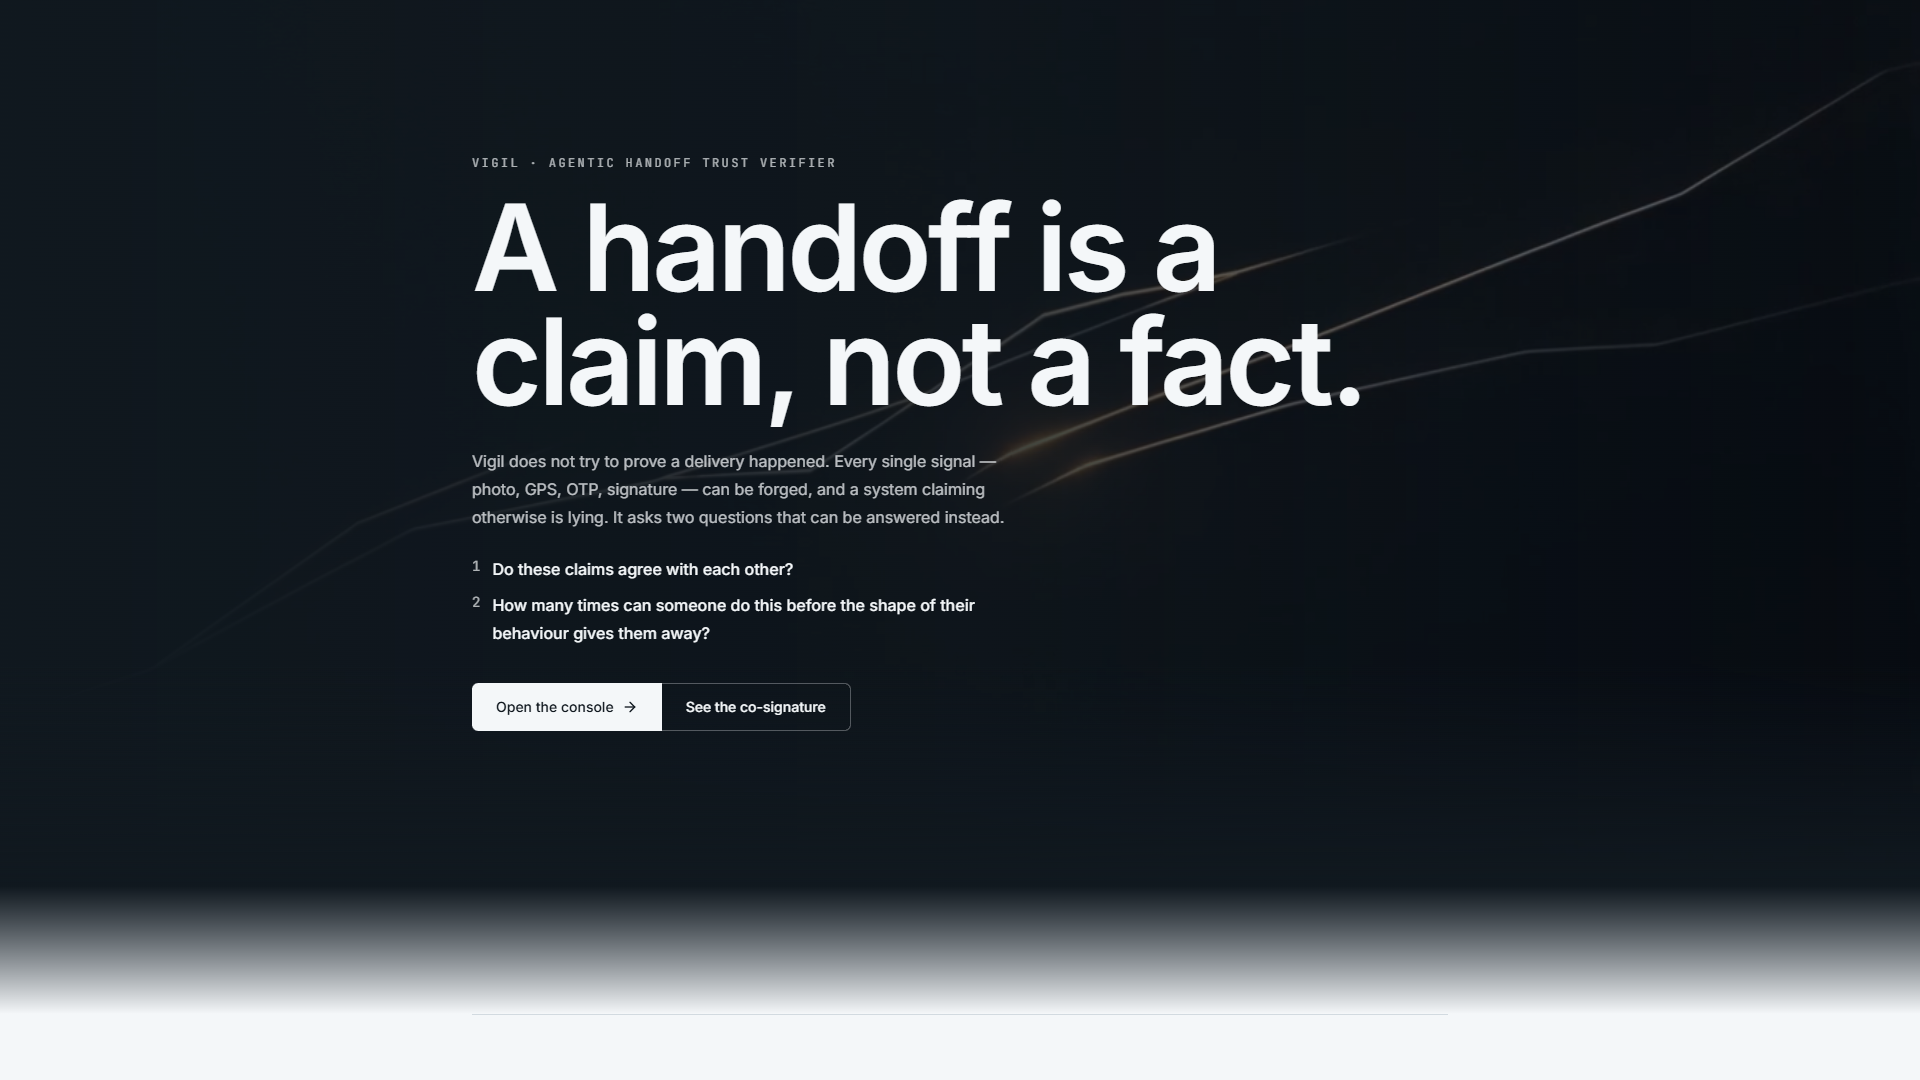
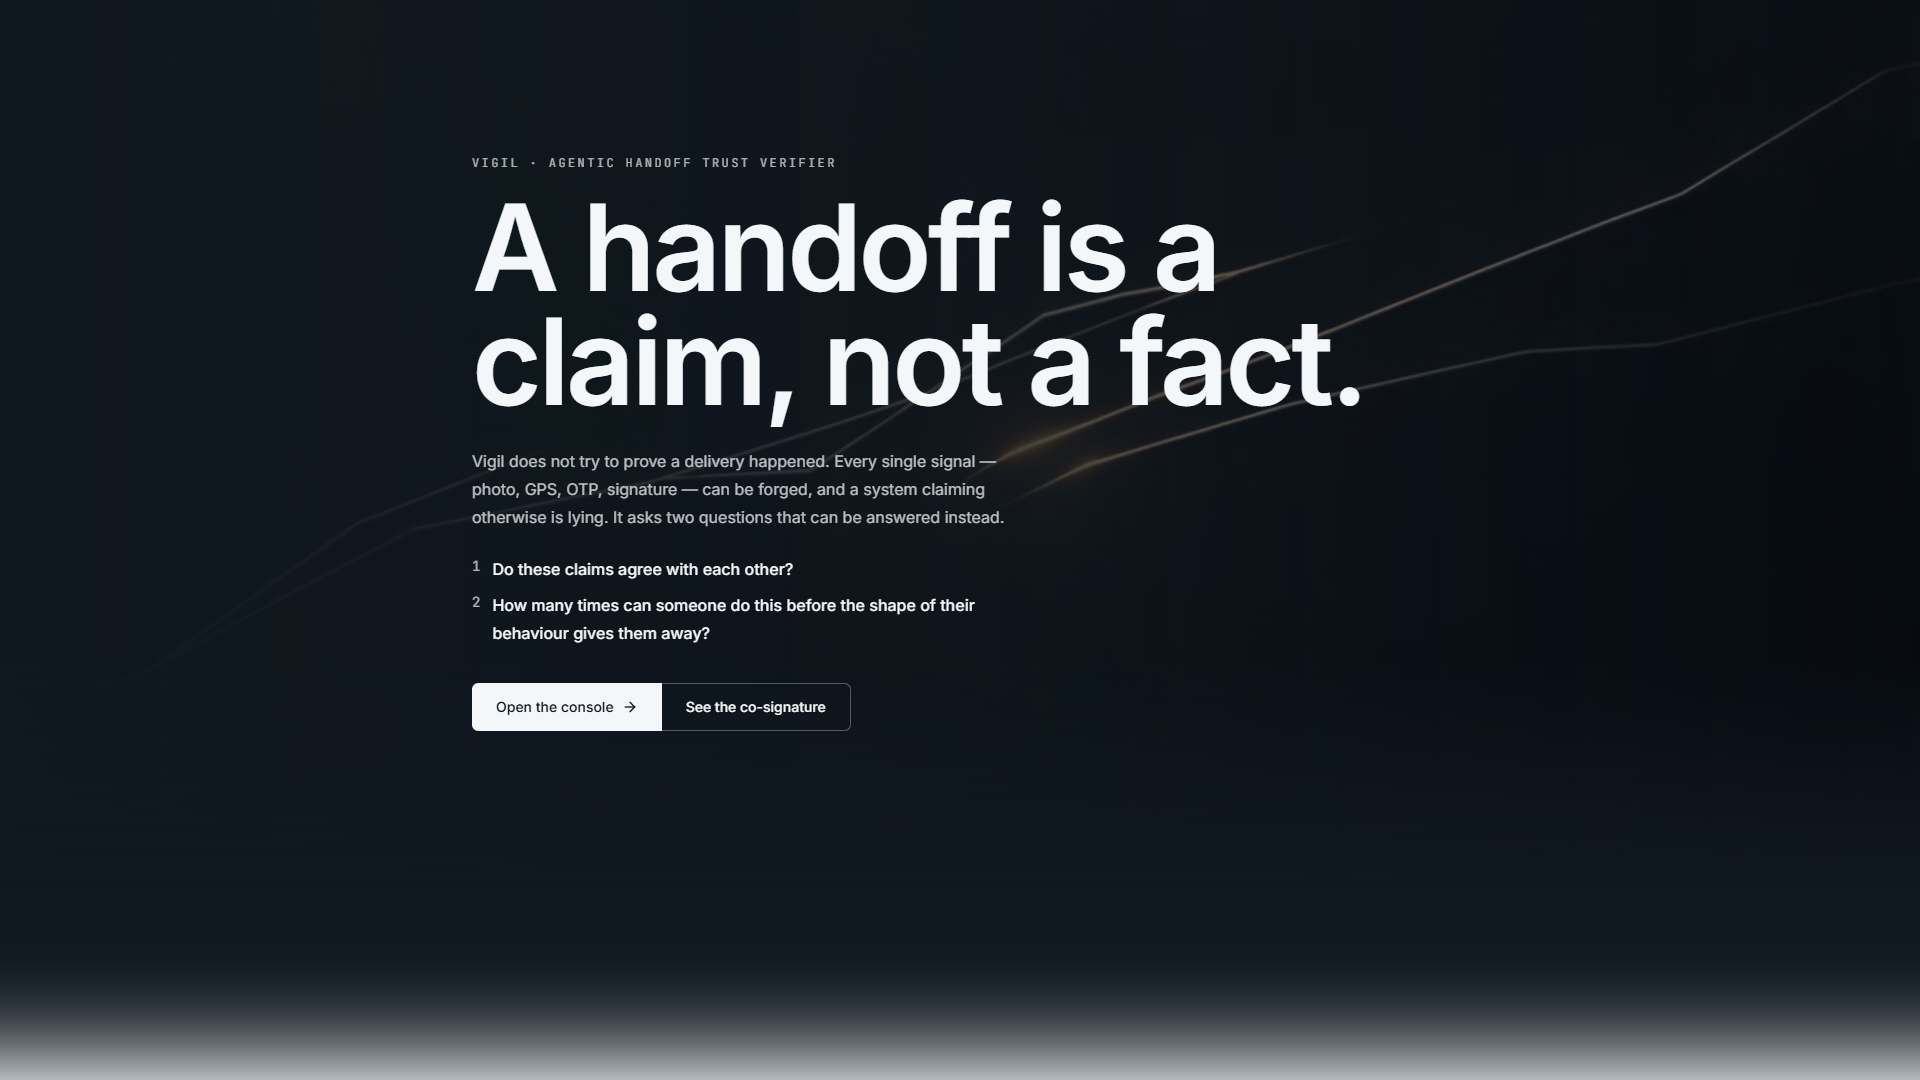
fix(landing): the hero seam was a Mach band, not a colour mismatch
Hero and band met at the same 16,24,31; the edge was a flat hero meeting a
linear ramp at full slope. The band is now 256px of smootherstep(t^1.6) over
32 oklab stops, and the section after it carries no rule. capture-landing
measures the slope at both junctions and fails a linear ramp.

Changed region(s): [[0.0, 0.825, 1.0, 1.0]]

diff --git a/components/landing/landing-view.tsx b/components/landing/landing-view.tsx
@@ -6,6 +6,7 @@ import NumberFlow from "@number-flow/react";
 import { ArrowRight, Monitor, Smartphone } from "lucide-react";
 import { HERO, LIMITS, SECTIONS, type Stat } from "@/lib/landing/content";
 import { HERO_MEDIA, planHeroBackdrop } from "@/lib/landing/hero-media";
+import { transitionGradient } from "@/lib/landing/transition";
 import { cn } from "@/lib/utils";
 import { cancelFrame, frame, type FrameData } from "motion/react";
 import { PipelineSteps } from "./pipeline-steps";
@@ -30,10 +31,13 @@ export function LandingView() {
       <Hero />
       <TransitionBand />
 
-      {SECTIONS.map((section) => (
+      {SECTIONS.map((section, index) => (
         <Section
           key={section.id}
           section={section}
+          // The band has just finished the transition; a rule here would cut
+          // it at the moment it completes. Every later section keeps its rule.
+          ruled={index > 0}
           lead={section.id === "ai" ? <PipelineSteps /> : undefined}
         />
       ))}
@@ -206,20 +210,25 @@ function HeroBackdrop() {
  * with it — the argument's order (problem, consistency, the gate, approval,
  * where the AI sits) was set in session 19 and does not move for a gradient.
  *
- * `h-32` is a MACRO LAYOUT DIMENSION, in the same class as the pipeline's
- * 8 × 100vh: how long a transition lasts on the page. It is not a spacing token
- * and the 4/8/12/16/24/32 component scale does not govern it.
+ * `h-64` (256px) is a MACRO LAYOUT DIMENSION, in the same class as the
+ * pipeline's 8 × 100vh: how long a transition lasts on the page. It is not a
+ * spacing token and the 4/8/12/16/24/32 component scale does not govern it. It
+ * replaced session 22's `h-32`, whose 128px linear ramp showed a seam and a grey
+ * band — see `lib/landing/transition.ts` for what was measured and why the fix
+ * is the curve rather than the colours.
  *
  * Decorative: aria-hidden, no text, nothing to focus. Full-bleed by the same
  * clientWidth rule as the hero backdrop, so its edges line up with the hero's.
  */
+const TRANSITION_GRADIENT = transitionGradient();
+
 function TransitionBand() {
   const bleed = useDocumentWidth();
   return (
-    <div aria-hidden="true" data-transition-band className="relative h-32">
+    <div aria-hidden="true" data-transition-band className="relative h-64">
       <div
-        className="absolute inset-y-0 left-1/2 w-full -translate-x-1/2 bg-gradient-to-b from-foreground to-background"
-        style={bleed ? { width: bleed } : undefined}
+        className="absolute inset-y-0 left-1/2 w-full -translate-x-1/2"
+        style={{ backgroundImage: TRANSITION_GRADIENT, ...(bleed ? { width: bleed } : {}) }}
       />
     </div>
   );
@@ -260,13 +269,15 @@ function usePrefersReducedMotion(): boolean {
 function Section({
   section,
   lead,
+  ruled = true,
 }: {
   section: (typeof SECTIONS)[number];
+  ruled?: boolean;
   /** Rendered straight under the title, before the body: the thing the prose then comments on. */
   lead?: React.ReactNode;
 }) {
   return (
-    <section id={section.id} className="scroll-mt-16 border-t py-20">
+    <section id={section.id} className={cn("scroll-mt-16 py-20", ruled && "border-t")}>
       <p className="font-mono text-xs uppercase tracking-[0.2em] text-muted-foreground">
         {section.eyebrow}
       </p>

diff --git a/lib/landing/transition.ts b/lib/landing/transition.ts
@@ -1,0 +1,47 @@
+/**
+ * The dark-hero-to-light-page transition, as a curve and a CSS gradient.
+ *
+ * WHAT WAS WRONG, MEASURED BEFORE ANYTHING MOVED. The session-22 band was a
+ * linear 128px ramp. Its first row and the hero's last row read identical
+ * pixels — 16,24,31, the `--foreground` token — so there was no colour mismatch
+ * at the seam. The visible edge was a MACH BAND: the hero is flat, then the ramp
+ * starts at full slope, and the eye marks a sudden change in slope as a line.
+ * The mid-grey "banner" was the linear ramp's constant middle.
+ *
+ * So the fix is the SHAPE, not the colours: a curve whose slope is zero where it
+ * meets the flat hero and zero where it meets the flat page, with most of the
+ * change in the lower half — mostly unchanged across the top, turning near the
+ * bottom. `smootherstep(t^1.6)`: the exponent skews the turn downward, and
+ * smootherstep flattens both ends to zero slope AND zero curvature.
+ *
+ * Smoothstep was the first choice and measured worse at the light end: skewing
+ * the turn that low left it only 74px to flatten, and 8px above the page its
+ * slope was still 23% of its steepest — a second, fainter Mach band against the
+ * white. Smootherstep, same skew: 4.5%. The top half moves 20% of the way.
+ */
+
+/** Share of the way from hero ground to page ground at position t ∈ [0, 1]. */
+export function transitionProgress(t: number): number {
+  const clamped = Math.min(1, Math.max(0, t));
+  const u = clamped ** 1.6;
+  return u * u * u * (u * (u * 6 - 15) + 10);
+}
+
+/**
+ * The band's background: stops sampled from the curve, mixed in oklab between
+ * the two raw tokens. Raw `var(--foreground)` rather than `--color-foreground`,
+ * which Tailwind only emits when a utility used it (CLAUDE.md, session 22).
+ *
+ * 32 stops, one per 8px of a 256px band. A pixel dump of the first 16-stop
+ * version showed small flat spots at every stop near the light end: between
+ * stops the browser interpolates linearly, so each stop is a slope kink.
+ */
+export function transitionGradient(steps = 32): string {
+  const stops: string[] = [];
+  for (let i = 0; i <= steps; i += 1) {
+    const t = i / steps;
+    const share = Math.round(transitionProgress(t) * 1000) / 10;
+    stops.push(`color-mix(in oklab, var(--foreground), var(--background) ${share}%) ${Math.round(t * 1000) / 10}%`);
+  }
+  return `linear-gradient(to bottom in oklab, ${stops.join(", ")})`;
+}

diff --git a/lib/landing/transition.test.ts b/lib/landing/transition.test.ts
@@ -1,0 +1,47 @@
+import { describe, expect, it } from "vitest";
+import { transitionGradient, transitionProgress } from "./transition";
+
+describe("the hero-to-page transition curve", () => {
+  it("starts at the hero's ground and ends at the page's", () => {
+    expect(transitionProgress(0)).toBe(0);
+    expect(transitionProgress(1)).toBe(1);
+  });
+
+  it("never reverses", () => {
+    let previous = 0;
+    for (let i = 1; i <= 200; i += 1) {
+      const value = transitionProgress(i / 200);
+      expect(value).toBeGreaterThanOrEqual(previous);
+      previous = value;
+    }
+  });
+
+  /**
+   * THE PROPERTY THAT REMOVES THE SEAM. A linear ramp has the same slope at its
+   * ends as in its middle, and that jump from the flat hero is the edge a viewer
+   * sees. Here the slope at each end must be a small fraction of the steepest
+   * slope in the band.
+   */
+  it("has near-zero slope where it meets the flat hero and the flat page", () => {
+    const h = 1 / 256; // one pixel of a 256px band
+    const slope = (t: number) => (transitionProgress(Math.min(1, t + h)) - transitionProgress(Math.max(0, t - h))) / (2 * h);
+    let steepest = 0;
+    for (let i = 0; i <= 256; i += 1) steepest = Math.max(steepest, slope(i / 256));
+
+    // Eight pixels in from each edge of a 256px band.
+    expect(slope(8 / 256) / steepest).toBeLessThan(0.05);
+    expect(slope(1 - 8 / 256) / steepest).toBeLessThan(0.05);
+  });
+
+  it("keeps the top half mostly unchanged and does most of its turning below", () => {
+    expect(transitionProgress(0.5)).toBeLessThan(0.25);
+  });
+
+  it("emits a stop at both ends of the band, mixed in oklab from the raw tokens", () => {
+    const css = transitionGradient();
+    expect(css.startsWith("linear-gradient(to bottom in oklab,")).toBe(true);
+    expect(css).toContain("var(--background) 0%) 0%");
+    expect(css).toContain("var(--background) 100%) 100%");
+    expect(css).not.toContain("--color-");
+  });
+});
